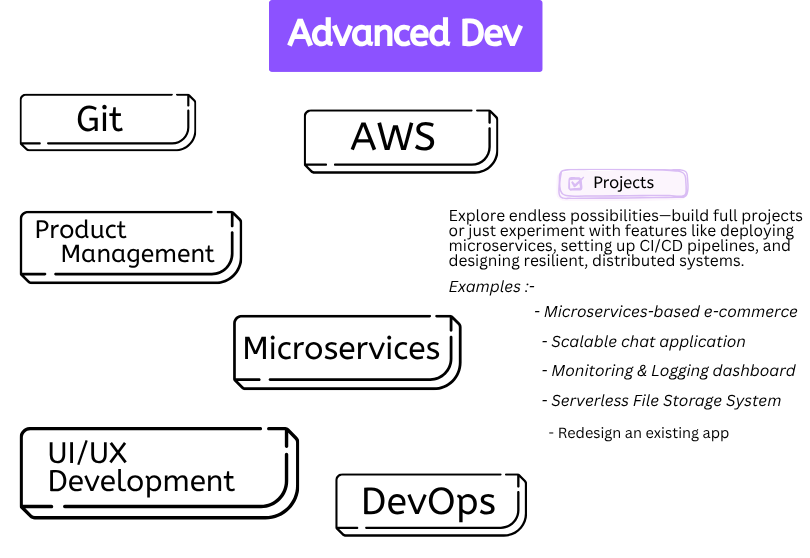
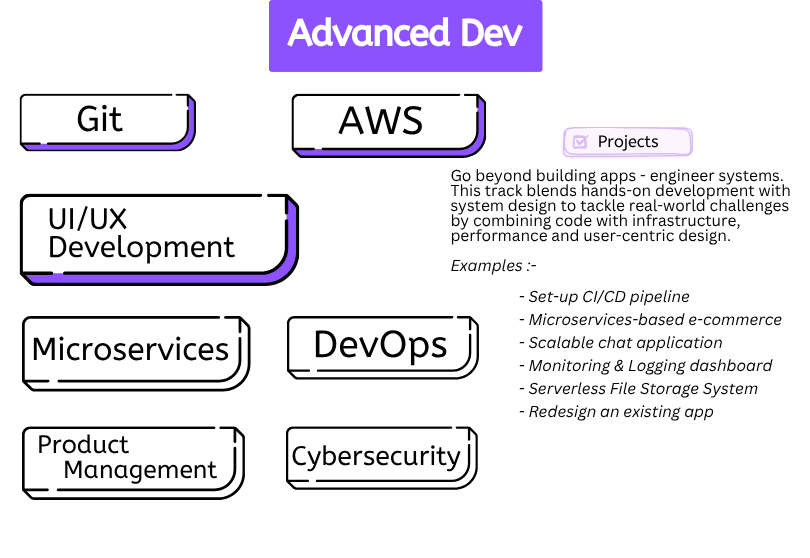
changes: articles -> projects, roadmap images, cta etc

diff --git a/src/content/config.ts b/src/content/config.ts
@@ -18,7 +18,18 @@ const blogCollection = defineCollection({
   }),
 });
 
+// Pages collection schema
+const pagesCollection = defineCollection({
+  schema: z.object({
+    title: z.string(),
+    description: z.string().optional(),
+  }),
+});
+
+
+
 // Export collections
 export const collections = {
-  articles: blogCollection
+  articles: blogCollection,
+  pages: pagesCollection,
 };
